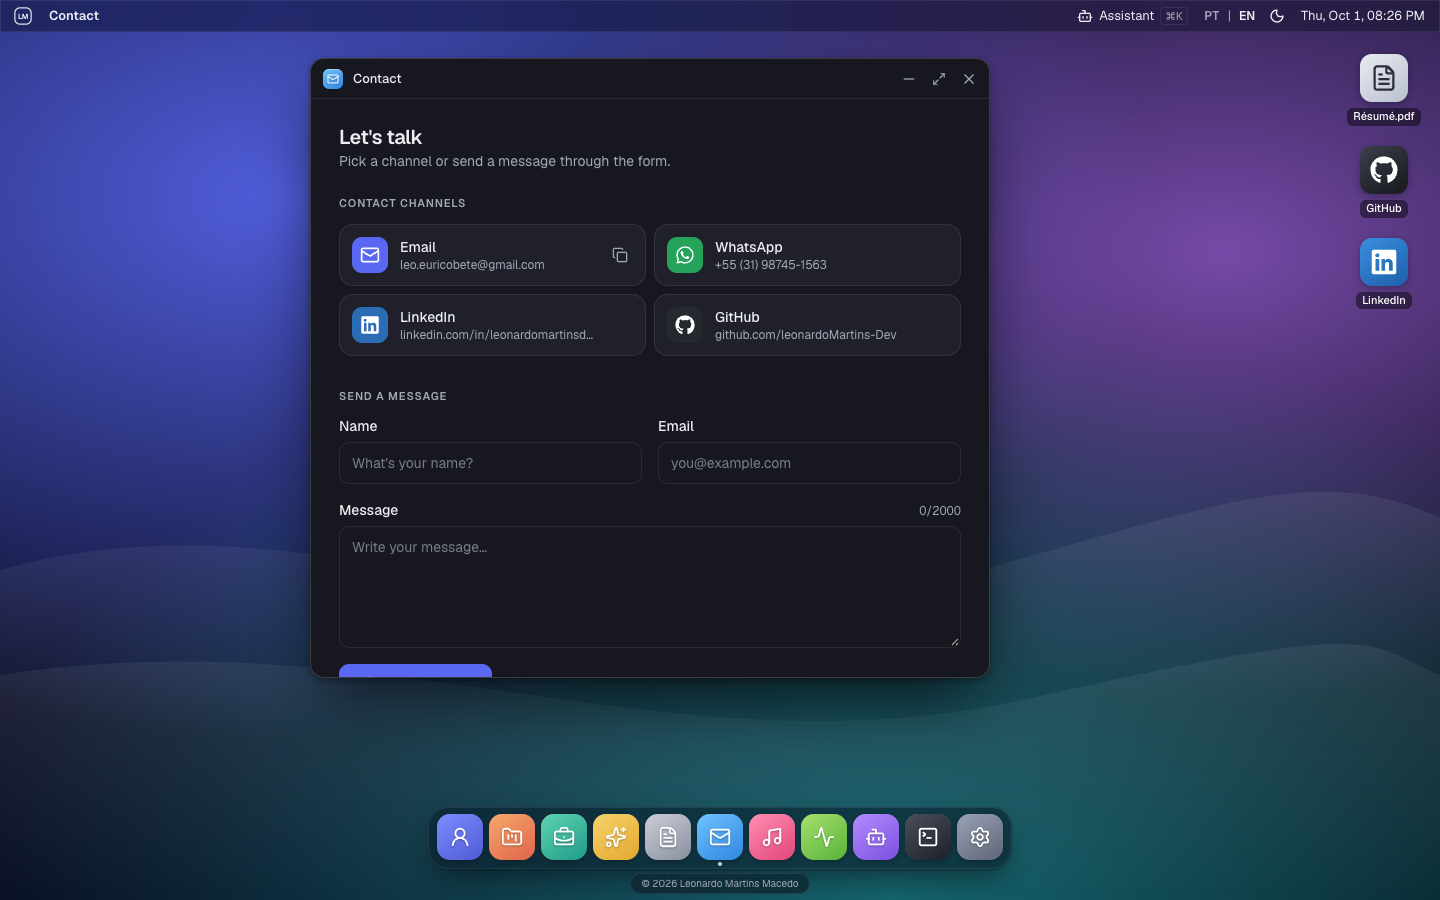
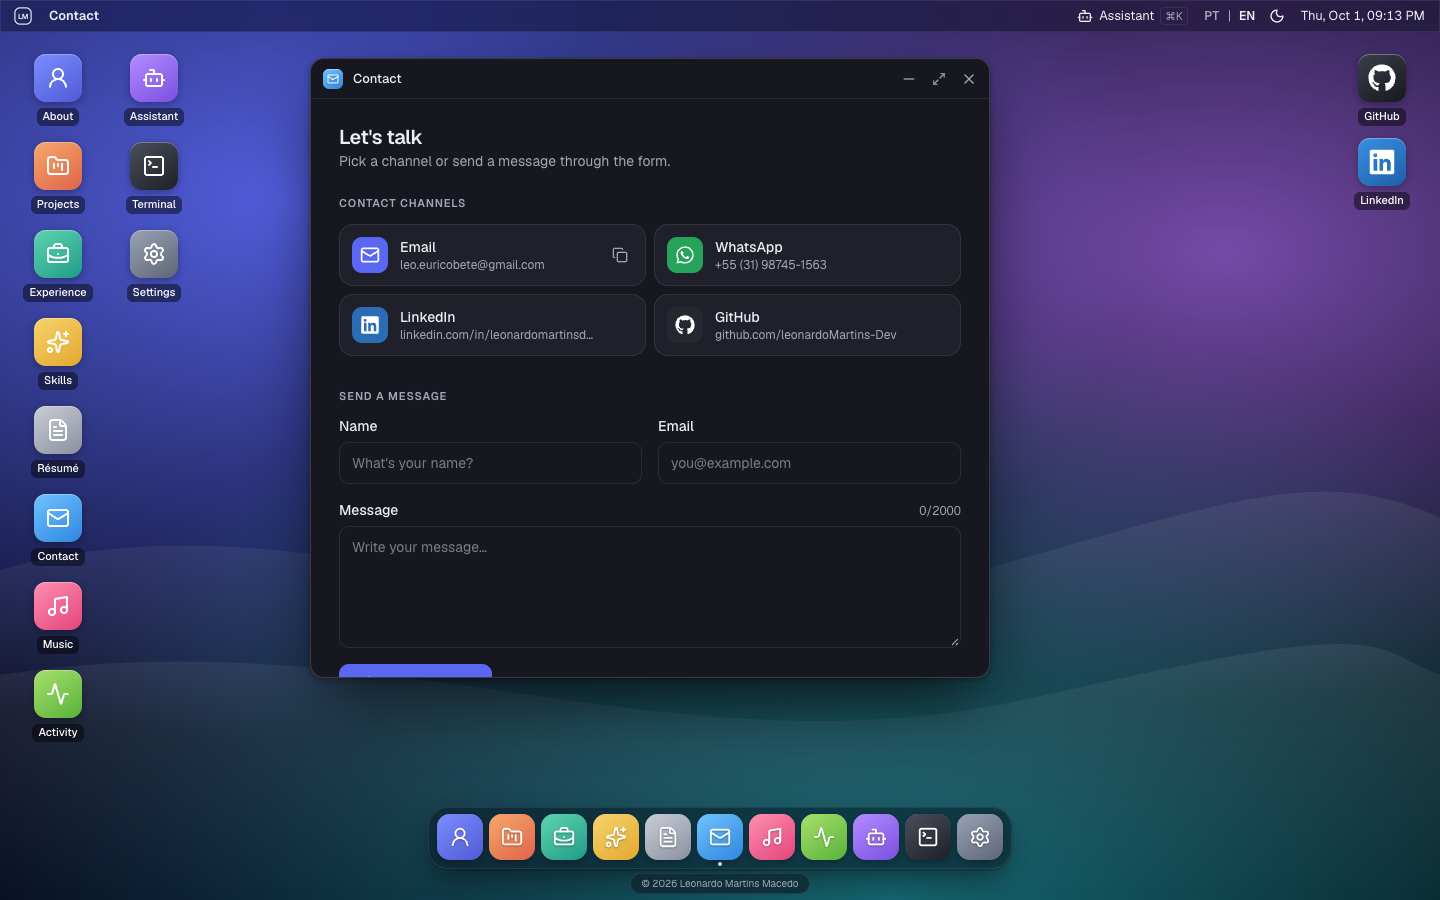
feat: mostra os apps do dock como ícones na área de trabalho
Os apps do dock ficam numa coluna à esquerda (clique duplo, Enter ou
um toque abre) e os links de GitHub e LinkedIn à direita, como pedido
pelo autor.

Changed region(s): [[0.0, 0.0622, 0.125, 0.84], [0.9375, 0.0622, 1.0, 0.3422]]

diff --git a/src/components/os/DesktopShortcuts.jsx b/src/components/os/DesktopShortcuts.jsx
@@ -1,73 +1,108 @@
-import { FileText } from 'lucide-react';
-import { useId } from 'react';
+import { useId, useRef } from 'react';
 import { useTranslation } from 'react-i18next';
 import { FaGithub, FaLinkedin } from 'react-icons/fa6';
-import { navigateToApp } from '../../lib/os-bridge.js';
+import { apps } from '../../lib/apps.jsx';
+import { useLocalized } from '../../lib/hooks.js';
+import { useOS } from '../../lib/os-store.js';
 import { siteConfig } from '../../site.config.js';
 
-/** Atalhos da área de trabalho. Clique duplo (ou Enter) abre. */
+const openExternal = (url) => window.open(url, '_blank', 'noopener,noreferrer');
+
+/**
+ * Ícones da área de trabalho: os apps do dock à esquerda e os links
+ * (GitHub, LinkedIn) à direita. Clique duplo (ou Enter) abre; no toque,
+ * um toque basta.
+ */
 export function DesktopShortcuts() {
   const { t } = useTranslation();
+  const l = useLocalized();
   const hintId = useId();
+  const openApp = useOS((state) => state.openApp);
 
-  const shortcuts = [
-    {
-      id: 'resume',
-      label: t('desktop.resumeFile'),
-      icon: <FileText className="size-7" />,
-      tint: ['#e8ebf2', '#b9c0cf'],
-      dark: true,
-      open: () => navigateToApp('resume'),
-    },
+  const appIcons = apps
+    .filter((app) => app.inDock)
+    .map((app) => {
+      const Icon = app.icon;
+      return {
+        id: app.id,
+        label: l(app.title),
+        icon: <Icon className="size-6" />,
+        tint: app.tint,
+        open: () => openApp(app.id),
+      };
+    });
+
+  const links = [
     {
       id: 'github',
       label: 'GitHub',
       icon: <FaGithub className="size-7" />,
       tint: ['#3b3f4a', '#16181d'],
-      open: () => window.open(siteConfig.social.github, '_blank', 'noopener,noreferrer'),
+      open: () => openExternal(siteConfig.social.github),
     },
     {
       id: 'linkedin',
       label: 'LinkedIn',
       icon: <FaLinkedin className="size-7" />,
       tint: ['#3a8fe0', '#1d5fa8'],
-      open: () => window.open(siteConfig.social.linkedin, '_blank', 'noopener,noreferrer'),
+      open: () => openExternal(siteConfig.social.linkedin),
     },
   ];
 
   return (
-    <nav aria-label={t('desktop.shortcuts')} className="absolute top-4 right-4 z-0">
+    <>
       <p id={hintId} className="sr-only">
         {t('desktop.shortcutHint')}
       </p>
-      <ul className="flex flex-col gap-2">
-        {shortcuts.map((shortcut) => (
-          <li key={shortcut.id}>
-            <button
-              type="button"
-              aria-describedby={hintId}
-              data-shortcut={shortcut.id}
-              onDoubleClick={shortcut.open}
-              // Enter/Espaço no teclado disparam click com detail 0.
-              onClick={(event) => event.detail === 0 && shortcut.open()}
-              className="group flex w-20 flex-col items-center gap-1.5 rounded-sm p-1.5 focus:bg-white/15 focus:outline-none focus-visible:outline-2 focus-visible:outline-white"
-            >
-              <span
-                aria-hidden
-                className={`grid size-12 place-items-center rounded-[12px] shadow-[0_2px_8px_rgb(0_0_0/0.3)] ${shortcut.dark ? 'text-[#2b2f3a]' : 'text-white'}`}
-                style={{
-                  background: `linear-gradient(145deg, ${shortcut.tint[0]}, ${shortcut.tint[1]})`,
-                }}
-              >
-                {shortcut.icon}
-              </span>
-              <span className="rounded-[6px] bg-black/45 px-1.5 py-0.5 text-center text-[11px] leading-tight font-medium text-white group-focus:bg-accent">
-                {shortcut.label}
-              </span>
-            </button>
-          </li>
-        ))}
-      </ul>
-    </nav>
+      <nav aria-label={t('desktop.apps')} className="absolute inset-y-0 left-0 py-4 pl-3">
+        {/* Preenche de cima para baixo e abre novas colunas quando a altura acaba. */}
+        <ul className="grid h-full auto-cols-[5.75rem] grid-flow-col grid-rows-[repeat(auto-fill,5.5rem)] gap-x-1">
+          {appIcons.map((item) => (
+            <li key={item.id}>
+              <DesktopIcon item={item} hintId={hintId} data-desktop-app={item.id} />
+            </li>
+          ))}
+        </ul>
+      </nav>
+      <nav aria-label={t('desktop.links')} className="absolute top-4 right-3">
+        <ul className="flex flex-col">
+          {links.map((item) => (
+            <li key={item.id}>
+              <DesktopIcon item={item} hintId={hintId} data-shortcut={item.id} />
+            </li>
+          ))}
+        </ul>
+      </nav>
+    </>
+  );
+}
+
+function DesktopIcon({ item, hintId, ...props }) {
+  const pointerType = useRef('mouse');
+
+  return (
+    <button
+      type="button"
+      aria-describedby={hintId}
+      onPointerDown={(event) => {
+        pointerType.current = event.pointerType;
+      }}
+      onDoubleClick={() => pointerType.current === 'mouse' && item.open()}
+      // Teclado (Enter/Espaço dispara click com detail 0) ou toque: abre direto.
+      onClick={(event) => (event.detail === 0 || pointerType.current !== 'mouse') && item.open()}
+      className="group flex h-[5.25rem] w-[5.75rem] flex-col items-center gap-1.5 rounded-sm p-1.5 focus:bg-white/15 focus:outline-none focus-visible:outline-2 focus-visible:outline-white"
+      {...props}
+    >
+      <span
+        aria-hidden
+        className="grid size-12 shrink-0 place-items-center rounded-[12px] text-white shadow-[inset_0_1px_0_rgb(255_255_255/0.3),0_2px_8px_rgb(0_0_0/0.3)]"
+        style={{ background: `linear-gradient(145deg, ${item.tint[0]}, ${item.tint[1]})` }}
+      >
+        {item.icon}
+      </span>
+      <span className="max-w-full truncate rounded-[6px] bg-black/45 px-1.5 py-0.5 text-center text-[11px] leading-tight font-medium text-white group-focus:bg-accent">
+        {item.label}
+      </span>
+    </button>
   );
 }

diff --git a/tests/e2e/desktop.spec.js b/tests/e2e/desktop.spec.js
@@ -109,3 +109,20 @@ test('Terminal executa comandos e abre apps', async ({ page }) => {
   await input.press('Enter');
   await expect(page.locator('[data-window="contact"]')).toBeVisible();
 });
+
+test('ícones da área de trabalho: apps à esquerda abrem com clique duplo ou Enter', async ({
+  page,
+}) => {
+  await markVisited(page);
+  await skipIntro(page);
+  const apps = page.getByRole('navigation', { name: 'Apps da área de trabalho' });
+  await expect(apps.getByRole('button')).toHaveCount(DOCK_APPS.length);
+  await page.locator('[data-desktop-app="experience"]').dblclick();
+  await expect(page.locator('[data-window="experience"]')).toBeVisible();
+  await page.locator('[data-desktop-app="resume"]').focus();
+  await page.keyboard.press('Enter');
+  await expect(page.locator('[data-window="resume"]')).toBeVisible();
+  const links = page.getByRole('navigation', { name: 'Links' });
+  await expect(links.getByRole('button', { name: 'GitHub' })).toBeVisible();
+  await expect(links.getByRole('button', { name: 'LinkedIn' })).toBeVisible();
+});

diff --git a/README.md b/README.md
@@ -99,6 +99,7 @@
 
 - 💻 **Intro 3D:** notebook que abre, liga e leva a câmera para dentro da tela. Pulável, acessível por teclado e desativada com movimento reduzido ou sem WebGL.
 - 🪟 **Gerenciador de janelas:** abrir saindo do dock, focar, arrastar, redimensionar, minimizar para o dock, maximizar (ou clique duplo no título) e fechar. Cada app é único e tem rota própria.
+- 🖥 **Área de trabalho:** ícones de todos os apps à esquerda (clique duplo ou Enter abre) e GitHub/LinkedIn à direita.
 - 📱 **Versão mobile:** tela inicial com perfil, widgets, grade de apps e dock; apps em tela cheia; o Voltar do navegador fecha o app.
 - 🌐 **PT/EN:** rotas `/pt` e `/en`; a troca mantém o app aberto (`/pt/projects` ↔ `/en/projects`).
 - 🌗 **Tema claro, escuro ou do sistema**, 4 papéis de parede originais.

diff --git a/docs/PROJETO.md b/docs/PROJETO.md
@@ -8,6 +8,7 @@
 > - **i18n:** i18next + react-i18next (rotas `/pt` e `/en` com React Router).
 > - **Variáveis públicas:** prefixo `VITE_` (não `NEXT_PUBLIC_`).
 > - **Nome do sistema (decisão do autor):** Portifólio. **Provisórios até o autor decidir:** cor de destaque `#5a67f2` e logo (monograma "LM"), ambos em `src/site.config.js`.
+> - **Área de trabalho (decisão do autor):** ícones de todos os apps do dock na coluna da esquerda; GitHub e LinkedIn à direita (substitui os atalhos da §9.1).
 > - **Modelo de IA padrão:** `gpt-6-luna` (o mais barato da OpenAI em out/2026; ver §11.5).
 > - Onde o texto abaixo cita Next.js, Route Handlers, next-intl, `next/font` ou `next/image`, vale o equivalente desta revisão.
 
